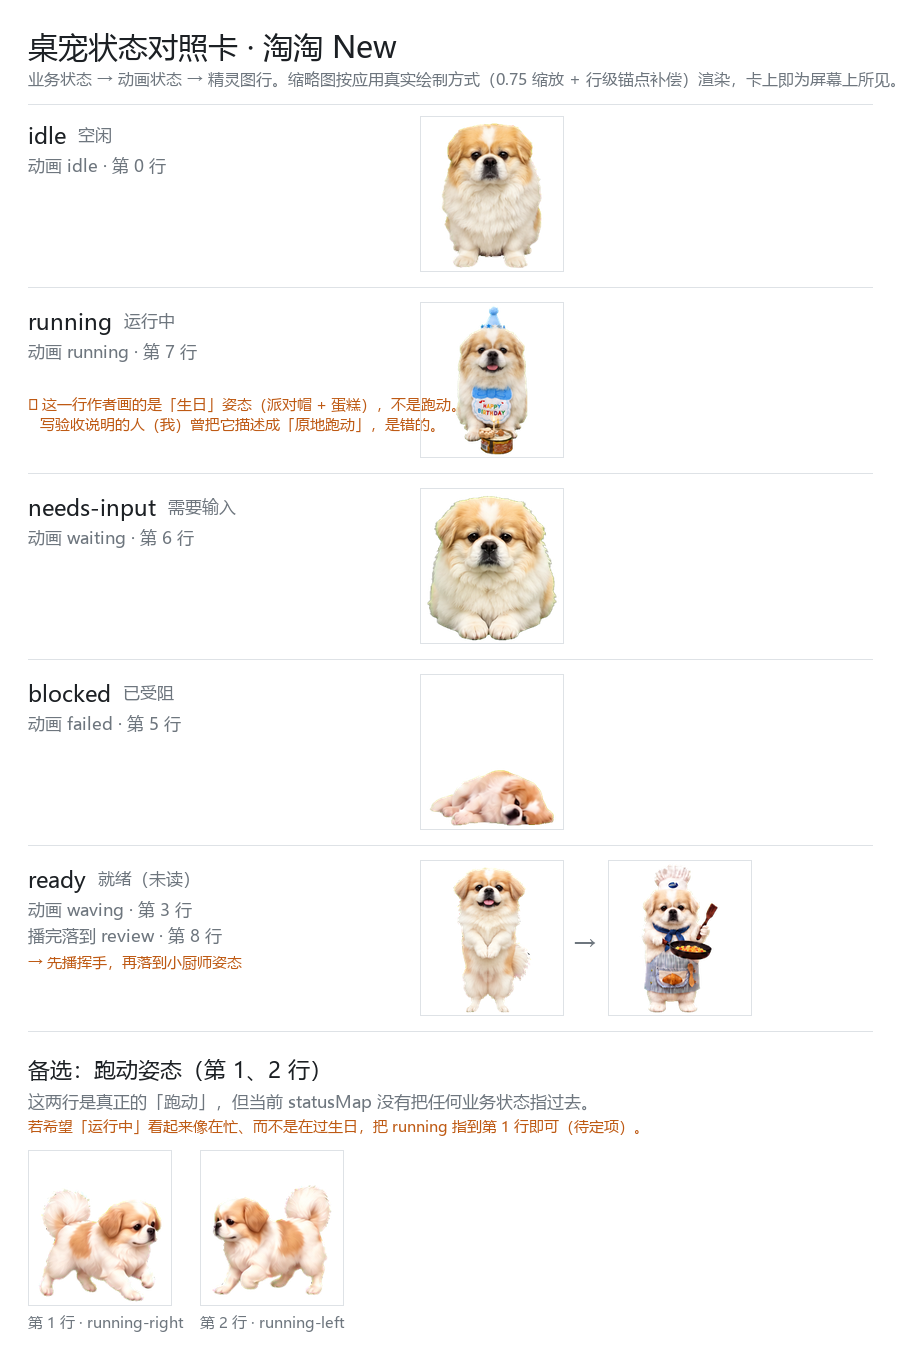
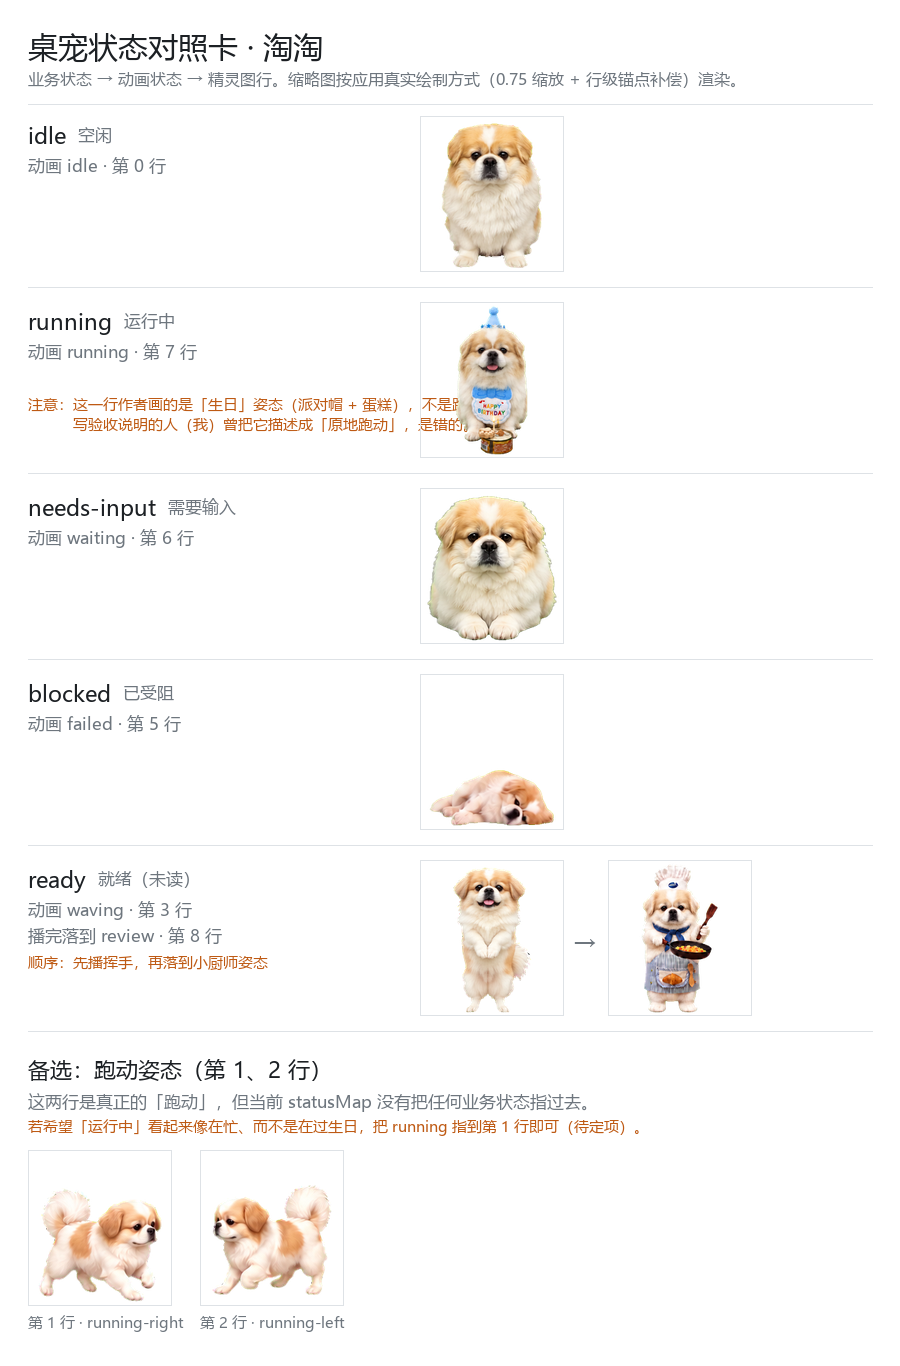
docs(readme): 按设计视角重构介绍页 —— 换主视觉、补场景、去编程语料
用户看过 GitHub 上的实际渲染效果后指出四个问题，逐条对应：

1. 主角闭着眼 —— 首图用的 shot-b.png 是闭眼那版，观感像蔫了。换成 shot-a.png
   （睁眼正视，294×318，真实素材）。

2. 场景太少 —— 引入 docs/status-reference.png 作主视觉。这是一张状态对照卡，
   一次展示 idle / running / needs-input / blocked / ready 五个场景，且缩略图是
   **按应用真实绘制方式渲染的**，卡上看到的就是屏幕上看到的。

3. 可读性差、层级乱 —— 原版把用户关心的（怎么装、长什么样）和开发者关心的
   （代码结构、测试项数、喂状态）全放在同级 ## 上，读者要一路读到底。重构成
   渐进披露：访客区只留 4 节（它盯着什么 / 三个细节 / 怎么装 / 它不是什么），
   从源码、架构、测试、喂状态、改素材、文档索引**全部下沉进 <details>**。

4. 编程语料太重 —— 访客区清零，下列词条全部移入开发者区：
   WS_EX_NOACTIVATE、HKCU\...\Run、src/kernel/、446 项断言、纯函数单测、
   探针 / 判据 / ADR、esbuild / tsc、spriteVersionNumber、"内核不碰 Electron"。
   同时把徽章从 5 个减到 3 个（砍掉 tests 和 electron —— 那是开发者关心的），
   去掉 ⚠ 连排，粗体从满篇收敛到只用于小标题。

顺带修一处 ADR 046 的尾巴：tools/make-status-reference.py 把卡片标题
**硬编码**成了旧名「淘淘 New」，改名后卡片与实际显示名对不上。改成从
desktop-pet.json → pack.displayName 读，不再硬编码，并重新生成了对照卡。

diff --git a/tools/make-status-reference.py b/tools/make-status-reference.py
@@ -3,11 +3,14 @@
 """生成"业务状态 → 动画状态 → 精灵图行 → 屏幕上实际长什么样"的对照卡。
 
 为什么需要：人工验收时，说明文字里的"跑动"这类措辞很容易和这只包作者的实际作画对不上
-（淘淘 New 的第 7 行 `running` 画的是生日姿态，不是跑动 —— 我们已经在验收说明里写错过一次）。
+（第 7 行 `running` 画的是生日姿态，不是跑动 —— 我们已经在验收说明里写错过一次）。
 对照卡按**应用真实绘制方式**（0.75 缩放 + 行级 offsetY 锚点补偿）渲染缩略图，
 所以卡上看到的就是屏幕上看到的。
 
 用法：python tools/make-status-reference.py   → docs/status-reference.png
+
+宠物名从 `desktop-pet.json → pack.displayName` 读（ADR 046 定了单一名源），
+**不再硬编码** —— 之前这里写死了旧名，改名后卡片标题与实际显示名对不上。
 """
 import json
 import os
@@ -72,7 +75,7 @@ def main():
     img = Image.new("RGBA", (W, H), BG)
     d = ImageDraw.Draw(img)
 
-    d.text((28, 26), "桌宠状态对照卡 · 淘淘 New", font=f_title, fill=INK)
+    d.text((28, 26), "桌宠状态对照卡 · " + runtime["pack"]["displayName"], font=f_title, fill=INK)
     d.text((28, 68),
            "业务状态 → 动画状态 → 精灵图行。缩略图按应用真实绘制方式（0.75 缩放 + 行级锚点补偿）渲染。",
            font=f_sub, fill=MUTED)

diff --git a/README.md b/README.md
@@ -1,89 +1,116 @@
-<h1 align="center">淘淘 · 桌面宠物</h1>
+<h1 align="center">淘淘</h1>
 
 <p align="center">
-  <b>把 AI agent 的工作状态，变成 Windows 桌面上一只可以逗的宠物。</b><br>
+  <b>一只住在 Windows 桌面上的狗，替你盯着 AI agent 干到哪一步了。</b><br>
   <sub>个人项目 · 非官方 · 仅 Windows</sub>
 </p>
 
 <p align="center">
-  <a href="LICENSE"><img alt="license" src="https://img.shields.io/badge/code-MIT-blue?style=flat-square&logo=opensourceinitiative"></a>
-  <img alt="version" src="https://img.shields.io/badge/version-1.0.1-blue?style=flat-square">
-  <img alt="platform" src="https://img.shields.io/badge/platform-Windows%2010%2F11%20x64-lightgrey?style=flat-square">
-  <img alt="electron" src="https://img.shields.io/badge/runtime-Electron-47848F?style=flat-square&logo=electron&logoColor=white">
-  <img alt="tests" src="https://img.shields.io/badge/tests-446%20passed-success?style=flat-square">
+  <img src="https://img.shields.io/badge/Windows-10%20%7C%2011%20x64-0078D4?style=flat-square">
+  <img src="https://img.shields.io/badge/%E7%89%88%E6%9C%AC-v1.0.1-6E7781?style=flat-square">
+  <img src="https://img.shields.io/badge/%E8%AE%B8%E5%8F%AF%E8%AF%81-MIT-8A8A8A?style=flat-square">
+</p>
+
+<p align="center">
+  <img src="spikes/m1-shot/shot-a.png" width="250" alt="淘淘">
 </p>
 
 ---
 
-跑着 agent 的时候，桌面上有只狗替你看进度：**它在跑就来回踱步，需要你回话就举手弹气泡，没人理它就趴下打盹。** 你不用切窗口瞄一眼终端，就知道"现在到哪一步了"。
+## 它替你盯着什么
 
-<table>
-  <tr>
-    <td width="34%" align="center"><img src="spikes/m1-shot/shot-b.png" width="170" alt="桌面上的淘淘"><br><sub>就待在桌面上，不抢你焦点</sub></td>
-    <td width="33%" align="center"><img src="spikes/m2-hotkey/bubble-shot.png" width="230" alt="需要输入的气泡"><br><sub>要你回话时冒气泡，角标计会话数</sub></td>
-    <td width="33%" align="center"><img src="spikes/m2-control/control-shot.png" width="235" alt="控制条面板"><br><sub>右键唤出：状态 + 手动把玩</sub></td>
-  </tr>
-</table>
+你同时开着几个 agent 的时候，最烦的不是等，是**不知道自己在等哪个**。
 
-<sub>上图均为本仓库真实运行截图。</sub>
+淘淘看你的 agent 状态，然后待在桌面上用动作告诉你：
 
-## 30 秒看懂
+- **在跑** —— 它端着蛋糕到处晃（就是它画在图里的「运行中」，见下方对照卡）
+- **等你回话** —— 它举手，冒一个气泡，多个会话同时等就显示 `+N`
+- **卡住了** —— 它趴下
+- **没事干** —— 它打盹
+- **你点了全屏** —— 它自己藏起来，退出全屏再回来
 
-| 你在做的事 | 淘淘的反应 |
-|---|---|
-| 开着 agent 但没下文 | 趴着打盹 |
-| agent 正在跑 | 原地踱步，偶尔换个方向 |
-| agent 要你确认 / 回答 | **举手 + 冒气泡**「需要输入」，多会话时角标显示 `+N` |
-| 你手动点了某个动作 | 照演，**跟 agent 状态完全无关**——它是宠物，不是状态栏 |
-| 你开了全屏游戏 / 视频 | 自动藏起来，退出全屏再回来 |
+<p align="center">
+  <img src="docs/status-reference.png" width="620" alt="淘淘的全部状态">
+  <br>
+  <sub>它的全部状态。缩略图按应用真实绘制方式渲染，卡上看到的就是屏幕上看到的。</sub>
+</p>
 
-**给谁用**：同时跑多个 AI agent、经常需要盯着"哪个还在跑、哪个卡在等我"的人。
+## 三个让你愿意一直开着的细节
 
-**它不是什么**：不是 Live2D 播放器，不依赖任何 agent 客户端，也不是某家产品的官方插件。它是一个**自己写的运行时**，用 Electron 透明窗口把淘淘的精灵图集一帧帧画在桌面上。
+**它不打断你。** 窗口全程不抢焦点，鼠标移到它轮廓外就穿透到桌面去了 —— 不会挡住你点别的窗口。你正在写东西，它在背后踱步，你完全感觉不到它。
+
+**它全屏让路。** 你打开游戏或视频，它自动消失，退出全屏再回来。
+
+**它能干净地关掉。** 托盘图标一键退出，开机自启可以随时关，不写服务也不写计划任务。
 
 ## 装上它
 
-> **先说清楚现状**：这个仓库目前**没有公开发布的预编译包**（GitHub Release 是空的），因为产物有 164 MB，我不想随便往公开仓库丢这么大的二进制。
-> 下面给你两条路：**要现成的**找作者要 zip；**愿意自己构建**的按「从源码跑」走，全程 3 分钟。
+> 仓库目前**没有公开发布的预编译包**（安装包 164 MB，我不想随手往公开仓库丢这么大的二进制）。
+> 要现成的找作者要压缩包；愿意自己装的全程 3 分钟。
 
-### 方式一：拿现成的（免安装绿色版）
+1. 拿到压缩包，**整个解压**到一个固定位置 —— 别放「下载」文件夹，也别放会被系统清理的临时目录
+2. 双击里面的 `desktop-pet.exe`
+3. 托盘出现一个图标：**单击 = 收起／放出**，**右键 = 菜单**
 
-1. 拿到 `desktop-pet-1.0.1-win-x64.zip`；
-2. **整个解压**到一个固定位置（别放"下载"文件夹，也别放会被清理的临时目录）；
-3. 双击 `desktop-pet.exe`；
-4. 托盘出现宠物图标：**左键单击 = 收起/放出**，**右键 = 完整菜单**。
+**三件容易踩的事：**
 
-**三个必须知道的坑：**
+- **那个 exe 不能单独拿走。** 它只是入口，还得靠同级目录里的其他文件才能起来。**要搬就整个目录一起搬。**
+- **第一次双击会被 Windows 拦一下**（没买证书签名）。点「更多信息」→「仍要运行」放行。
+- **开了开机自启就别再挪这个文件夹了。** 自动启动记的是它的完整位置；真挪了，到新位置双击一次 exe 就修好了。
 
-- ⚠ **`desktop-pet.exe` 不能单独拷走。** 它只是入口，启动时要在同级目录找 `resources/`、`*.dll`、`*.pak`、`locales/`。**要拷就拷整个解压出来的目录。**
-- ⚠ **未签名 exe 首次运行会被 SmartScreen 拦。** 点「更多信息 → 仍要运行」放行。
-- ⚠ **开了开机自启之后别再移动这个目录。** 注册表里记的是绝对路径，移动后自启会失效——在新位置双击一次 `desktop-pet.exe` 即可自动修正。
+<details>
+<summary><b>从源码运行</b></summary>
 
-### 方式二：从源码跑
-
-要求 **Node 22**、Windows x64。
-
-> 开发与验证用的是 **Node 22.13.1 / Windows x64**。**更低版本未验证过**——本仓库的规矩是"平台行为一律实测、不推断"，所以这里不写一个没测过的最低版本号。
+需要 **Node 22**、Windows x64。
 
 ```bash
 npm ci
 npm run build        # 完整构建（只跑 tsc 不够，渲染层还要过 esbuild）
-npm start            # = electron .
+npm start            # 启动
 ```
 
-想出绿色版 / 分发 zip：
+打包成免安装绿色目录 / zip：
 
 ```bash
 npm run make:portable        # 只出目录 → dist-win/desktop-pet/
 npm run make:portable:zip    # 顺带压成一个 zip（对外分发用这一个）
 ```
 
-> 打包脚本**只复制 `dist/`，它自己不构建**——所以必须先 `npm run build`。
+> 打包脚本**只复制 `dist/`，它自己不构建** —— 所以必须先 `npm run build`。
+
+</details>
+
+## 它不是什么
+
+说清楚边界比罗列功能有用：
+
+- **它就是淘淘。** 这是为淘淘做的软件，不是一个能换任意宠物的通用框架。
+- **只支持 Windows**，没有 macOS / Linux 版，也没在做。
+- **多显示器不跨屏漫游** —— 淘淘只在自己那块屏里走。动过显示器配置后它可能停在看不见的屏上，托盘图标右键可以唤回来。
+- **不是 Live2D 播放器**，也不依赖 Codex / ChatGPT 或任何 agent 客户端。
+
+---
 
 <details>
-<summary><b>让它动起来：手工喂几个状态看看（开发者 / 想看效果的人）</b></summary>
+<summary><b>开发者：架构、测试、文档</b></summary>
 
-宠物自己不产生状态，状态从 agent 那边来。想看它动，仓库里带了一个人工验收入口：
+### 架构
+
+内核刻意不碰 Electron —— 状态仲裁、动画映射、行为层、命中判定全在 `src/kernel/`，
+宿主差异收在 `src/host/`。所以逻辑正确性是纯函数单测在跑，不用起窗口、不用肉眼。
+
+```
+src/
+├── kernel/     纯 TS 内核：状态仲裁、动画映射、播放器、行为层、手动把玩
+├── source/     状态源适配器：hook / 状态文件 → 统一事件
+├── host/       宿主适配层：窗口、托盘、气泡、控制条、全屏检测、自启
+├── main/       主进程装配
+└── renderer/   精灵图渲染 / 气泡 / 控制条面板
+```
+
+### 怎么喂状态
+
+淘淘自己不产生状态，状态从 agent 那边来。想看它动：
 
 ```bash
 node tools/pet-hook.mjs needs-input --session=demo --title="等你确认"
@@ -91,85 +118,47 @@ node tools/pet-hook.mjs running    --session=demo
 node tools/pet-hook.mjs idle       --session=demo
 ```
 
-Windows 上也可以双击 `喂状态.bat`（上面命令的图形版）。真实接入有两条通道——**hook 命令**（事件驱动，实时）与**状态文件**（快照轮询，默认在 `~/.desktop-pet/status.json`）。契约见 [`docs/constraints/sources-hooks.md`](docs/constraints/sources-hooks.md)，操作手册见 [`docs/how-to-run.md`](docs/how-to-run.md)。
+Windows 上也可以双击 `喂状态.bat`。真实接入有两条通道 —— **hook 命令**（事件驱动，实时）
+与**状态文件**（快照轮询，默认 `~/.desktop-pet/status.json`）。
 
-</details>
+### 测试
 
-## 它凭什么不一样
+```bash
+npm run typecheck      # 主进程 + preload 双份类型检查
+npm run test:status    # 行为与判据：446 项断言
+npm run check:timers   # 定时器生命周期静态检查
+```
 
-**自研运行时，不绑任何客户端。** 不依赖 Codex / ChatGPT，也不依赖某个 agent 的插件机制。状态就是一份约定好的格式 —— 任何 agent 只要能往一个文件里写状态，就能接上。
+真实窗口层面的验证在 `spikes/` 下 —— 启动真实窗口、注入真实鼠标、量真实读数，
+而不是断言 DOM 猜出来的。**改完动过界面的代码，判据在 `docs/constraints/build-probe.md`。**
 
-**内核不碰 Electron，所以能纯函数单测。** 状态仲裁、动画映射、行为层、命中判定全部收在 `src/kernel/`，宿主差异收在 `src/host/`。这意味着**逻辑正确性是 446 项断言在跑，不用起窗口、不用肉眼**。
+### 改淘淘的外观
 
-**判据是实测出来的，不是推断的。** 项目的硬规矩是"平台行为一律实测"——这条是被实测推翻过六次之后才立起来的。真实窗口层面的验证（真窗口、真鼠标注入、真像素读数）在 `spikes/` 下，**探针结论会进 ADR，不会只留在脑子里**。
-
-**它守住了几条硬边界：**
-
-- **不抢焦点**——窗口全程 `WS_EX_NOACTIVATE`，不会打断你正在做的事；
-- **只有宠物本身可点**——逐像素 alpha 命中判定，精灵轮廓外一律穿透到桌面，窗口"看着大"但不吃掉旁边的点击；
-- **全屏自动让位**——检测到全屏应用就藏起来；
-- **能关得掉**——托盘右键一键退出；开机自启写 `HKCU\...\Run`，可开关，**不写服务、不写计划任务**。
-
-## 它不做什么
-
-说清楚边界比罗列功能有用：
-
-- **它就是淘淘。** 这是**为淘淘做的软件**，不是通用桌宠框架 —— 不做多宠物切换，也不打算做成“换任意宠物包就能用”的平台。
-- **只支持 Windows**。核心依赖 Win32 分层窗口、`WS_EX_NOACTIVATE`、逐像素命中判定。
-- **多显示器不跨屏漫游**。宠物只在自己那块屏里走，不会窜到另一块屏上。
-- **没有 macOS / Linux 版**，也没有在做。
-- **预编译包目前不公开发布**（见上文「装上它」）。
-- **单显示器多屏用户注意**：动了显示器配置后，宠物可能停在看不见的那块屏上——托盘图标右键可以把它唤回来。
-
-## 它是怎么装下淘淘的
-
-外观来自一个**宠物包**：一张精灵图集（`spritesheet.webp`）+ `pet.json` + `behavior-map.json`。
-
-这套格式是照着 Codex / ChatGPT 的宠物包规格做的，所以淘淘能直接复用它们的素材规范。**但这不等于支持换宠物** —— 内部实现依然读那个格式，只是没有、也不打算做成“下载任意宠物包就能换”的平台。
-
-如果你想改**淘淘自己**的外观（改动画、改配置）：
+外观来自一份宠物包：精灵图集 `spritesheet.webp` + `pet.json` + `behavior-map.json`。
+格式是照着 Codex / ChatGPT 的宠物包规格做的。**但这不等于支持换宠物** ——
+内部实现依然读那个格式，只是没有、也不打算做成「下载任意宠物包就能换」的平台。
 
 - 规格说明：[`pet-spec.html`](pet-spec.html)
 - 校验：`python tools/validate_pet.py`
 - 生成空白模板：`python tools/make_pet_template.py`
+- 重新生成上面那张状态对照卡：`python tools/make-status-reference.py`
 
 改完记得让图集尺寸与 `pet.json` 里的 `spriteVersionNumber` 对得上。
 
-## 文档在哪
+### 文档
 
-这个工程的文档密度比一般个人项目高，因为它**是按"能被下一个会话接上"来组织的**：
+这个工程的文档密度比一般个人项目高，因为它**是按「能被下一个会话接上」来组织的**：
 
 | 文件 | 作用 |
 |---|---|
-| [`PLAN.md`](PLAN.md) | 接续入口：现在到哪了、下一步做什么、细节去哪找 |
-| [`AGENTS.md`](AGENTS.md) | 开工约定与约束路由表（按"你要改什么"指向对应约束） |
-| [`docs/decisions/INDEX.md`](docs/decisions/INDEX.md) | 决策档案一行一条（ADR 全文在同目录，只增不改） |
-| [`docs/how-to-run.md`](docs/how-to-run.md) | 操作手册：启动、托盘、气泡、控制条、动作排 |
+| [`PLAN.md`](PLAN.md) | 接续入口：现在到哪了、下一步做什么 |
+| [`AGENTS.md`](AGENTS.md) | 开工约定与约束路由表 |
+| [`docs/decisions/INDEX.md`](docs/decisions/INDEX.md) | 决策档案一行一条（全文在同目录，只增不改） |
+| [`docs/how-to-run.md`](docs/how-to-run.md) | 操作手册 |
 | [`docs/acceptance.md`](docs/acceptance.md) | 人工验收清单 |
-| [`docs/constraints/`](docs/constraints/) | 硬约束（探针判据、状态源契约等） |
 | [`journal/`](journal/) | 每次会话的日志 |
 
-踩过的坑基本都写进了 ADR 与约束文件。想知道某个设计**为什么**这么做，去 `docs/decisions/` 翻对应编号。
-
-<details>
-<summary><b>代码结构与测试（开发者）</b></summary>
-
-```
-src/
-├── kernel/     纯 TS 内核：状态仲裁、动画映射、播放器、行为层、手动把玩（不 import Electron）
-├── source/     状态源适配器：hook / 状态文件 → 统一事件
-├── host/       宿主适配层：窗口、托盘、气泡、控制条、全屏检测、自启
-├── main/       主进程装配（boot 的每一段都有索引注释）
-└── renderer/   精灵图渲染 / 气泡 / 控制条面板
-```
-
-```bash
-npm run typecheck      # tsc，主进程 + preload 双份
-npm run test:status    # 行为与判据：446 项断言
-npm run check:timers   # 定时器生命周期静态检查（每条 interval 的句柄都必须被接住）
-```
-
-真实窗口层面的验证在 `spikes/` 下，各目录有自己的 README。它们是**探针**：启动真实 Electron 窗口、注入真实鼠标、量真实读数，而不是断言 DOM 猜出来的。
+想知道某个设计**为什么**这么做，去 `docs/decisions/` 翻对应编号。
 
 </details>
 
@@ -177,6 +166,9 @@ npm run check:timers   # 定时器生命周期静态检查（每条 interval 的
 
 **代码：[MIT](LICENSE)。**
 
-**演示素材不在授权范围内。** 仓库里的 `spritesheet.webp`、`examples/`、`assets/pet_atlas_guide_*.png`、`assets/tray.ico`、`pet-spec.html`、`atlas-map.png` 等美术与规格素材，是**为了让人能直接跑起来而随附的演示资源**，仅用于展示宠物的外观与动画规格。
+**演示美术素材不在授权范围内。** 仓库里的 `spritesheet.webp`、`examples/`、
+`assets/pet_atlas_guide_*.png`、`assets/tray.ico`、`pet-spec.html`、`atlas-map.png`
+等美术与规格素材，是为了让人能直接跑起来而随附的演示资源。
 
-如果你要基于本项目做自己的作品，**请换成你自己拥有权利的素材**（用 `python tools/make_pet_template.py` 生成模板即可）。
+如果你要基于本项目做自己的作品，**请换成你自己拥有权利的素材**
+（用 `python tools/make_pet_template.py` 生成模板即可）。
